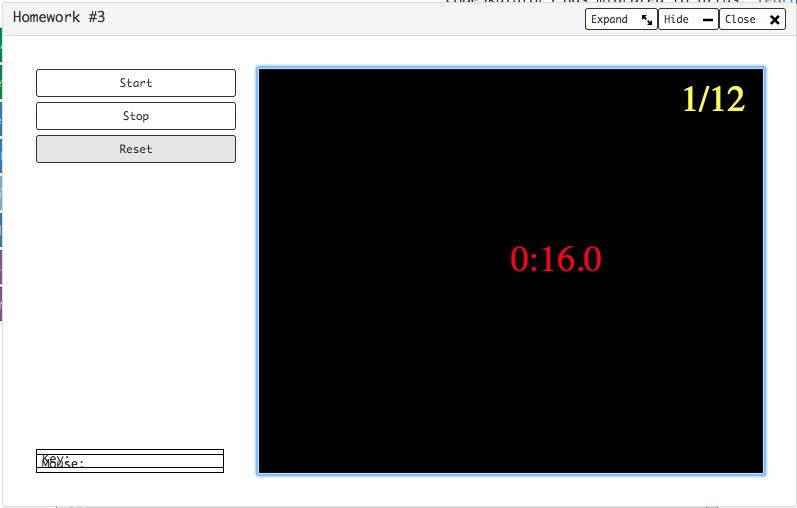
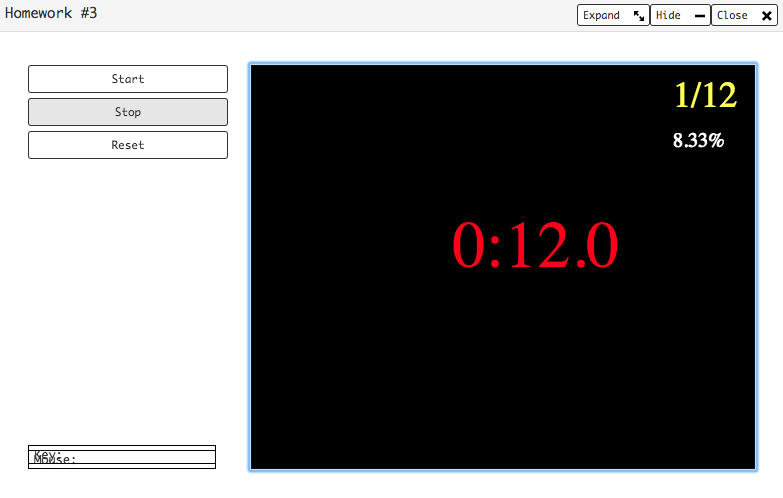
Homework03

diff --git a/Homework03/stop_game.py b/Homework03/stop_game.py
@@ -18,14 +18,19 @@ def draw_timer(canvas):
     '''draws times & stops counter on canvas'''
     global  total_stops, successful_stops
     
-    canvas.draw_text(format(counter), [250,200], 36, "Red")
+    canvas.draw_text(format(counter), [200,200], 66, "Red")
     canvas.draw_text('{x}/{y}'.format(x=successful_stops, y=total_stops), [420,40], 36, "Yellow")
+    
+    if successful_stops > 0:
+        canvas.draw_text('{}%'.format( round((successful_stops/total_stops)*100,2) ), [420,80], 20, "White")
+    else:
+        canvas.draw_text('0%', [420,80], 20, "White")
 
     
 def start_timer():
     timer.start()
 
-
+    
 def stop_timer():
     global counter, total_stops, successful_stops
     

diff --git a/Homework03/README.md b/Homework03/README.md
@@ -1,10 +1,7 @@
 # [Homework 03](https://github.com/20awesome/VladBolibruk_MA2018Python/issues/4)
-* [My "Stop: Game"](https://py3.codeskulptor.org/#user302_xcV1AoiZj2w2Tfc_24.py)
+* [My "Stop: Game"](https://py3.codeskulptor.org/#user302_xcV1AoiZj2w2Tfc_42.py)
 * [Testing my 'format' function](https://py3.codeskulptor.org/#user302_nZ8mf921mU_3.py)
 
 ----
 
 ![alt text](Screen_Shot_1.png "RPSLS")
-----
-
-![alt text](Screen_Shot_2.png "RPSLS")
